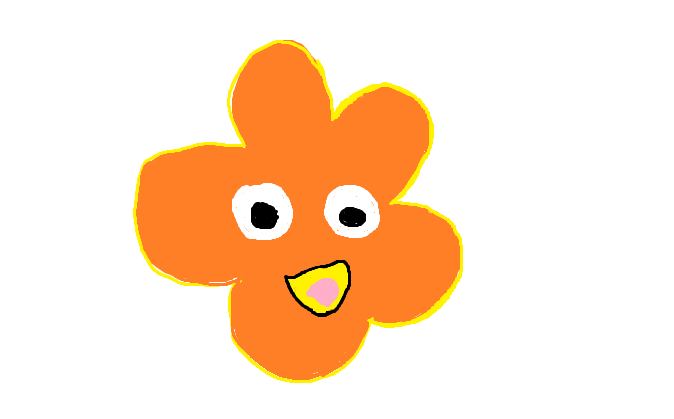
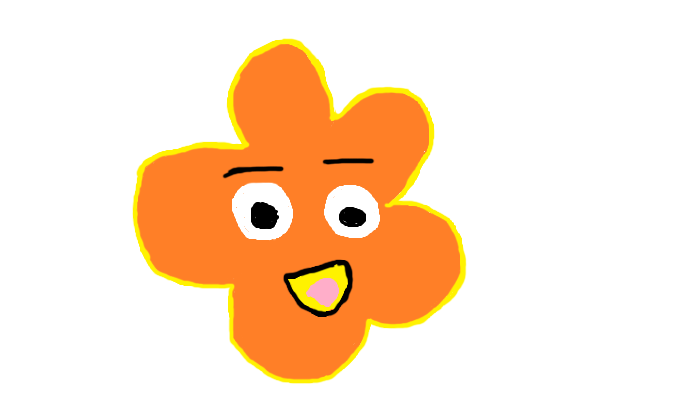
fixed images with paint artifacts, ading main character

diff --git a/tifa/tifa/LogicHandler.cpp b/tifa/tifa/LogicHandler.cpp
@@ -1,11 +1,10 @@
 #include "LogicHandler.h"
-#include "InfinitePan.h"
 
 #define WIDTH 640
 #define HEIGHT 480
 #define TITLE "The Incredible Florist Adventure"
 
-sf::Sprite titleScreenBg;
+sf::Sprite titleScreenBg, yamster;
 sf::RectangleShape shape;
 
 InfinitePan clouds, ground;
@@ -13,6 +12,7 @@ InfinitePan clouds, ground;
 //CONSTRUCTOR
 LogicHandler::LogicHandler(void){
 	titleScreen = true;
+	elapsedTime = 1;
 
 	window = new sf::RenderWindow(sf::VideoMode(WIDTH, HEIGHT), TITLE, sf::Style::Close);
 
@@ -29,9 +29,20 @@ LogicHandler::LogicHandler(void){
 	sf::Sprite *cloudSprite = new sf::Sprite();
 	cloudSprite->setTexture(*textureList.at(2));
 	spriteList.push_back(cloudSprite);
-	spriteList.push_back(clouds.setSprite(cloudSprite, WIDTH, -0.001f, 0.0f));
+	spriteList.push_back(clouds.setSprite(cloudSprite, WIDTH, -0.0001f, 0.0f));
 
+	sf::Sprite *groundSprite = new sf::Sprite();
+	groundSprite->setTexture(*textureList.at(3));
+	spriteList.push_back(groundSprite);
+	spriteList.push_back(ground.setSprite(groundSprite, WIDTH, -0.001f, 350.0f));
 
+	yamster.setTexture(*textureList.at(4));
+	spriteList.push_back(&yamster);
+	yamster.scale(0.25, 0.25);
+	yamster.setOrigin(167, 340);
+	yamster.setPosition(50, 300);
+
+	window->setFramerateLimit(0);
 }
 
 //DESTRUCTOR
@@ -41,7 +52,7 @@ LogicHandler::~LogicHandler(void){
 
 void LogicHandler::run(void){
 
-	float deltaTime = 0;
+	double deltaTime = 0;
 	sf::Clock clock;
 	while (window->isOpen()){
 		sf::Event event;
@@ -65,17 +76,19 @@ void LogicHandler::run(void){
 
 		window->draw(shape);
 		shape.move(1, 0);
-
-		deltaTime = clock.getElapsedTime().asMicroseconds();
+		
+		deltaTime = (double)clock.getElapsedTime().asMicroseconds();
 
 		window->display();
     }
 }
 
-void LogicHandler::update(float delta){
-	
+void LogicHandler::update(double delta){
+	elapsedTime += (delta * 0.0001);
 	if(!titleScreen){
 		clouds.update(delta);
+		ground.update(delta);
+		yamster.setRotation(sin(elapsedTime * 0.15) * 10);
 	}
 }
 

diff --git a/tifa/tifa/LogicHandler.h b/tifa/tifa/LogicHandler.h
@@ -1,16 +1,19 @@
 #pragma once
+
+#include "InfinitePan.h"
 #include <SFML\Graphics.hpp>	//uses graphics cuz itz a game dur
 #include <fstream>
 #include <string>
 #include <vector>
 #include <iostream>
+#include <Windows.h>
 
 class LogicHandler{
 
 public:
 	LogicHandler(void);	//CONSTRUCTOR
 	~LogicHandler(void);	//DESTRUCTOR
-	void update(float delta_time);	//update game stuff
+	void update(double delta_time);	//update game stuff
 	void run(void);	//main game loop
 
 private:
@@ -20,4 +23,5 @@ private:
 	std::vector<sf::Texture*> textureList;	//list of all textures currently loaded
 	std::vector<sf::Sprite*> spriteList;	//list of all active sprites
 	bool titleScreen;	//if the game is at the title screen
+	double elapsedTime;
 };

diff --git a/tifa/tifa/InfinitePan.cpp b/tifa/tifa/InfinitePan.cpp
@@ -25,13 +25,13 @@ sf::Sprite* InfinitePan::setSprite(sf::Sprite *spr, float with, float ve, float 
 }
 
 void InfinitePan::update(double delta){
-	sprite->move(vel * delta, yPos);
-	sprite1->move(vel * delta, yPos);
+	sprite->move(vel * delta, 0);
+	sprite1->move(vel * delta, 0);
 
-	if(sprite->getPosition().x < -width){
+	if(sprite->getPosition().x < -width + 5){
 		sprite->setPosition(width, yPos);
 	}
-	if(sprite1->getPosition().x < -width){
+	if(sprite1->getPosition().x < -width + 5){
 		sprite1->setPosition(width, yPos);
 	}
 

diff --git a/tifa/tifa/MultiSprite.h b/tifa/tifa/MultiSprite.h
@@ -1,0 +1,16 @@
+#pragma once
+
+#include <vector>
+#include <SFML\Graphics.hpp>
+
+class MultiSprite{
+
+public:
+	MultiSprite(void);
+	~MultiSprite(void);
+
+private:
+	std::vector<sf::Sprite*> sprites;
+	float xPos, Ypos;
+};
+

diff --git a/tifa/tifa/MultiSprite.cpp b/tifa/tifa/MultiSprite.cpp
@@ -1,0 +1,10 @@
+#include "MultiSprite.h"
+
+
+MultiSprite::MultiSprite(void){
+
+}
+
+MultiSprite::~MultiSprite(void){
+
+}
